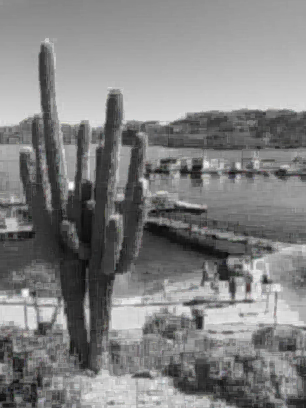
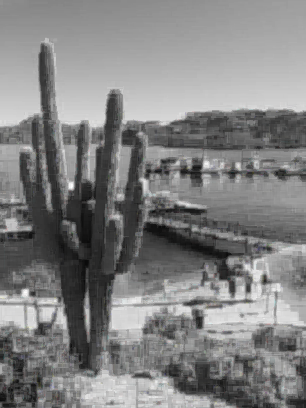
Finish AI Lab2

diff --git a/AI/ImageRecover/random_forest.py b/AI/ImageRecover/random_forest.py
@@ -30,12 +30,14 @@ def fix_patch(c, w, h, patch_size, corr_img, recover_img):
     # train_y =
 
 
-def optimize(recover_img):
-    radius = 1
+def optimize(corr_img, recover_img):
+    radius = 2
     (channel, width, height) = recover_img.shape
     for c in range(channel):
         for w in range(width):
             for h in range(height):
+                if corr_img[c, w, h] != 0:
+                    continue
                 total = 0
                 count = 0
                 for dx in range(-radius, 1 + radius):
@@ -47,12 +49,12 @@ def optimize(recover_img):
                                 and 0 != new_h != new_w:
                             total += recover_img[c, new_w, new_h]
                             count += 1
-                if abs(total / count - recover_img[c, w, h]) > 20/255:
+                if abs(total / count - recover_img[c, w, h]) > 0.2:
                     recover_img[c, w, h] = total / count
 
 
 def fix_global(corr_img, recover_img):
-    rfr = RandomForestRegressor(n_estimators=10)
+    rfr = RandomForestRegressor(n_estimators=50)
     noise_mask = corr_img == 0
     sample_coordinates = np.nonzero(~noise_mask)
     # if len(sample_coordinates[0]) < 2 * patch_size:
@@ -87,15 +89,13 @@ def main():
     recover_img[np.nonzero(recover_img < 0)] = 0
 
     cv.namedWindow("Before", flags=0)
-    cv.imshow("Before", recover_img.transpose().copy())
-    for _ in range(3):
-        optimize(recover_img)
+    cv.imshow("Before", corr_img.transpose())
 
     cv.namedWindow("After", flags=0)
     cv.imshow("After", recover_img.transpose())
     cv.waitKey(0)
     cv.destroyAllWindows()
-    cv.imwrite(img_path + '_fixed.png', recover_img.transpose() * 255)
+    cv.imwrite(img_path + '_rfr.png', recover_img.transpose() * 255)
 
 
 if __name__ == '__main__':

diff --git a/AI/ImageRecover/boosting.py b/AI/ImageRecover/boosting.py
@@ -8,7 +8,7 @@ from sklearn.ensemble import GradientBoostingRegressor
 
 def fix_global(corr_img, recover_img):
     g = GradientBoostingRegressor(loss='ls', max_depth=4, n_estimators=500)
-    noise_mask = corr_img== 0
+    noise_mask = corr_img == 0
     sample_coordinates = np.nonzero(~noise_mask)
     # if len(sample_coordinates[0]) < 2 * patch_size:
     #     return fix_patch(c, w, h, patch_size * 2, recover_img)
@@ -41,7 +41,7 @@ def main():
     recover_img[np.nonzero(recover_img > 255)] = 255
     recover_img[np.nonzero(recover_img < 0)] = 0
 
-    recover_img = cv.medianBlur(recover_img, 3)
+    # recover_img = cv.medianBlur(recover_img, 3)
 
     cv.namedWindow("Before", flags=0)
     cv.imshow("Before", corr_img.transpose())
@@ -49,6 +49,7 @@ def main():
     cv.imshow("After", recover_img.transpose())
     cv.waitKey(0)
     cv.destroyAllWindows()
+    cv.imwrite(img_path + '_boosting.png', recover_img.transpose())
 
 
 if __name__ == '__main__':

diff --git a/AI/ImageRecover/baseblock.py b/AI/ImageRecover/baseblock.py
@@ -69,6 +69,7 @@ def main():
     cv.imshow("After", recover_img.transpose())
     cv.waitKey(0)
     cv.destroyAllWindows()
+    cv.imwrite(img_path+'_baseblock.png', recover_img.transpose() * 255)
 
 
 if __name__ == '__main__':

diff --git a/AI/ImageRecover/mean.py b/AI/ImageRecover/mean.py
@@ -40,9 +40,4 @@ if __name__ == '__main__':
     cv.imshow("After", recover_img.transpose())
     cv.waitKey(0)
     cv.destroyAllWindows()
-
-
-
-
-
-
+    cv.imwrite(img_path + '_mean.png', recover_img.transpose())

diff --git a/AI/ImageRecover/__init__.py b/AI/ImageRecover/__init__.py
@@ -1,1 +1,1 @@
-__all__ = ['baseblock', 'baseline', 'gpr', 'mean', 'random_forest']
+__all__ = ['baseblock', 'baseline', 'gpr', 'mean', 'random_forest', 'boosting']

diff --git a/AI/ImageRecover/gpr.py b/AI/ImageRecover/gpr.py
@@ -58,4 +58,3 @@ def main():
 if __name__ == '__main__':
     main()
 
-

diff --git a/AI/ImageRecover/README.md b/AI/ImageRecover/README.md
@@ -1,0 +1,200 @@
+<center>
+
+# Image Recover
+
+</center>
+
+序号|学号|专业班级|姓名|性别
+-|-|-|-|-
+1|3150101155|计科1504|余锦成|男
+
+
+## 1. Project Introduction
+### 1.1. 开发环境
+- 操作系统：Ubuntu18.04
+- 开源框架：Python 3.6, scikit-learn 0.19.1, opencv-python 3.4.0.14, numpy 1.14.3
+- IDE：PyCharm
+- 项目管理工具：git
+
+### 1.2. 项目要求
+提供三张经过毁坏的图片，这三张图片的三个通道分别以一定的比例等概率地随机把某个像素点值设置为0。我们的任务是把这个图片尽量修复。最后评估指标是使用原图与修复图像每个像素的第二范式和（欧氏距离）。
+三张待修复的图片如下所示：
+![](img/A.png)
+![](img/B.png)
+![](img/C.png)
+
+## 2. Technical Details
+### 2. 理论阐述
+#### 2.1.1. Baseline
+
+该算法对每一行进行单独地恢复。对一行像素而言，对其横坐标$x$进行归一化，然后套入一个基函数$\phi$，进行一个非线性映射$\phi(x)$，对于映射后的坐标以及其未损坏的像素值$t$进行最大似然估计线性拟合$\mathbf{w}^T\mathbf{\phi(x)}$。
+修复的时候使用的基函数为
+$$
+\phi(x)=\exp{\left[-\frac{(x-\mu)^2}{2s^2}\right]}
+$$
+是不经过归一化的高斯分布密度函数。其中的均值是对于基函数个数的从0-1的线性插值。
+
+在实际使用中，我们使用的基函数是50个，对应的方差为0.01。此处0.01近似宽度像素点个数除以基函数个数乘以三，也就是说，一个像素点的附近的三个点对该点的影响最大。
+
+这种算法的坏处是只对于某一行某一个通道进行计算，计算的时候缺少了上一行和下一行的联系以及两个通道之间的联系，并且计算一个点的时候使用了一整行的信息，这也显得太过不合适。
+
+修复的效果如下图所示：
+![](img/A_50_0.6.png)
+![](img/B_50_0.6.png)
+![](img/C_50_0.6.png)
+
+可以看到修复效果并不是很好，主要是一行上有很多长条的噪点，上下行之间可以看到明显差别，不同通道之间统一性较差。在遇到临近三个点都被污染的时候，容易出现预测错误而出现长条噪点。
+
+#### 2.1.2. BaseBlock
+
+为了解决Baseline算法对于行与行之间的联系不密切的问题，我对上一个算法尝试了一些改进。首先我使用了二维的坐标信息$x=[x_1, x_2]$，基函数使用的是二元高斯分布密度函数：
+$$
+\phi(x)=\exp{\left[-\frac{(x-\mu)^T\Sigma^{-1}(x-\mu)}{2}\right]}
+$$
+其中均值第一维和第二维都是0-1的线性插值。所以最后基函数的格式是一维插值数量的平方。
+实际调参时候，插值了15个数，所以基函数为$15^2+1$个，最后一个是Bias。
+方差使用$0.01\mathbf{I}$，其中的0.01也以为着横坐标附近三个点（纵坐标由于原图不是方形，所以大概为5-6个像素点）。
+最后的效果如下图所示：
+![](img/B.png_baseblock.png)
+![](img/C.png_baseblock.png)
+可以看出，最后效果比Baseline稍微好一点，没有长条的噪点了，但是椒盐噪点还是有不少，而且图片细节丢失比较严重，所以这个模型并不是很好。
+
+#### 2.1.3. 均值滤波
+
+均值滤波算法并不是一个学习模型，但是是修复图片噪点的一个算法。我在研究过程中进行了测试。
+这个算法思想很简单，一个点的值使用以它为中心的九宫格的周围八个点的像素的均值。简单使用这个算法之后可以得出的结果如下图所示：
+![](img/A.png_mean.png)
+![](img/B.png_mean.png)
+可以看到，在噪点比例比较少的时候，恢复效果很好，但是在噪点比例较多的时候，九宫格只有一个有效点或者没有有效点较大的宫格进行计算时候，效果就会变得比较差了。
+
+#### 2.1.4. Gradient Boosting
+
+Boosting算法是使用多个弱分类器进行结合在一起分类的分类器。使用这种分类器我们可以实现一个回归算法。弱分类器之间的组合和权重使用梯度提升减小误差就是Gradient Boosting的思想。
+在实践中，我使用了第二范式和进行误差估计。
+具体效果如下：
+
+![](img/A.png_boosting.png)
+![](img/B.png_boosting.png)
+
+可以看到效果其实不是很好，尤其在噪点比例比较大的时候。而且因为是用多分类器进行回归，可以明显看到有一个一个的小格，这个是最明显的不足点。而且噪点也比较多，效果不是很好。
+
+#### 2.1.5 Random Forest
+随机森林算法是一种比较灵活的机器学习算法。在二分类问题中，我们可以学习一颗决策树对样本进行分类。但是这样一颗决策树是比较弱的分类器。那么随机森林就是通过有放回地随机抽取不同的样本进行决策树的学习，最后生成多颗决策树，汇总它们的决策结果作为随机森林的答案。随机森林的思想类似与Boosting，不过它的各个分类器都是一颗决策树。
+
+直接10颗决策树的随机森林的算法如下图所示：
+![](img/A.png_rfr.png)
+![](img/B.png_rfr.png)
+可以看到效果不错，对比均值滤波而言效果都要好一点。但是存在着跟Boosting一样的问题，就是出现小方格一样的图片分块不连续的效果。提高决策树的数量也没什么改善。
+
+### 2.2 算法实现
+#### 2.2.1. 数据预处理
+虽然我测试了好几个算法的效果，但其实实现都比较类似的。主要是提取出其中的训练数据特征、值以及测试数据特征。
+具体内容如下：
+- 首先读取图片，然后进行转置，获得图片为三维矩阵通道、宽、高。这里我还做了归一化处理。
+    ```python
+    corr_img = corr_img.transpose() / 255
+    ```
+- 提取Mask。这里对每个通道而言，把所有为0的像素点都认为是Nosie。
+    ```python
+    noise_mask = corr_img == 0
+    ```
+- 提取特征。这里的特征主要是像素的坐标和通道信息：
+    ```python
+    (train_channel_index, train_x_index, train_y_index) = \
+                                np.nonzero(~noise_mask)
+    (predict_channel_index, predict_x_index, predict_y_index) = \
+                                np.nonzero(~noise_mask)
+    ```
+- 提取训练值。直接代入坐标即可：
+    ```python
+    train_value = corr_img[train_channel_index, train_x_index, train_y_index]
+    ```
+- 在使用Baseblock时候，还需要把测试数据展成一个测试数据数\*基函数数\*特征数的一个矩阵。
+    ```python
+    train_coordinates = np.concatenate([[train_x], [train_y]]).transpose()
+    train_coordinates = np.array([train_coordinates] * basis_num ** 2).swapaxes(0, 1)
+    ```
+
+#### 2.2.2. 算法实现
+感觉sklearn库，有很多模型已经有实现了。我们Random Forest和Gradient Boosting可以直接使用这个库进行调参。
+```python
+g = sklearn.Model()
+g.fit(X,y)
+y_head = g.Predict(X_head)
+```
+
+但是Baseline和Baseblock和均值滤波需要自己实现。
+- Baseline
+    Baseline需要算出一个$\Phi$矩阵用于计算。
+    先构造出一个第一列为1的矩阵：
+    ```python
+    train_phi = np.column_stack((np.ones([train_num, 1]), \
+                np.zeros([train_num, basis_num - 1])))
+    ```
+    然后剩下的列用来求基函数的结果：
+    ```python
+    train_phi[:, 1: basis_num] = norm.pdf((np.array([train_x] * \
+                                         (basis_num-1)).T - mu) \
+                                / sigma) * np.sqrt(2 * np.pi)
+    ```
+    最后按照公式求出w:
+    ```python
+    w = (train_phi.T * train_phi).I * train_phi.T * corr_img[c, train_index, h].T
+    ```
+    然后对测试集进行同样的求值，然后进行预测：
+    ```python
+    recover_img[c, predict_index, h] = w.transpose() * predict_phi.transpose()
+    ```
+- Baseblock
+    Baseblock的实现稍微复杂一点。但是跟Baseline差不多。在把$X$展开成试数据数\*基函数数\*特征数的一个矩阵之后，对生成的$\mu$相减之后同一代入二元高斯中计算，可以节省大量运算时间：
+    ```python
+    train_coordinates = train_coordinates - mu
+    train_coordinates = train_coordinates.reshape(train_num * basis_num ** 2, 2)
+    ```
+    然后构造初始矩阵和完善矩阵：
+    ```python
+    train_phi = np.column_stack((np.ones([train_num, 1]), \
+                     np.zeros([train_num, basis_num**2])))
+    train_phi[:, 1:basis_num**2 + 1] = \ 
+        multivariate_normal.pdf(train_coordinates, cov=sigma)\
+        .reshape(train_num, basis_num**2)
+    ```
+- 均值滤波
+    均值滤波实现比较简单，只要对于每个九宫格进行迭代计算就可以。不过注意block内可能没有一个可行点，这时候需要扩大宫格的大小。伪代码如下：
+    ```python
+    def mean(block_size):
+        for block in generate_block(block_size)
+            if block is valid and center is corrupted:
+                block[center] = np.mean(block[other])
+            else:
+                mean(block_size + 1)
+    ```
+
+## 3.Experiment Results
+### 3.1. 系统界面
+本项目没有主界面，在项目中有多个.py文件，在安装依赖之后运行就可以了。
+### 3.2. 操作说明
+首先需要安装依赖：
+```bash
+pip3 install -r requirements.txt
+```
+然后运行想要运行的模型，第一个参数为图片路劲：
+```bash
+python3 random_forest.py ./img/A.png
+```
+修复完成之后，会显示图片的对比，并且把修复后图片保存在图片目录下，文件名为：图片名_模型.png
+### 3.3. 运行结果
+运行之后，我们可以看到所选模型的修复前后结果对比：
+![](img/result.png)
+### 3.4. 总结
+这次实验非常有趣，对于图像进行修复是人工智能的一大重要的应用。人工智能能够把一张人类都已经看不清的图片修复成人类可以辨识的图片，非常厉害。而且这种工作不是普通人能够完成的。
+在过程中，一开始我对原有的Baseline算法进行二维扩展之后效果并不是很好，这一点我是比较失望的。
+后来我想用一个GMM模型对图片的一个小区域进行拟合，然后算出待修复点的数学期望进行修复，但无奈把GMM用于回归上是比较难以实现的。我在网上对于GMM模型对于图片的修复方面的文献进行搜索，发现其效果还是很棒的[^1]，但是自己没有足够的时间进行复现。其效果如下：
+![](img/leana_corr.png)
+![](img/lenna_LINC.png)
+可以看到细节处理和光滑程度都很棒。该算法在进行图像插值时候，认为两个patch之间是存在一定迭代关系的。并且使用GMM去拟合一个patch的分布。在GMM拟合之前使用kNN算法进行聚类。
+
+最后尝试了Boosting和Random Forest这两个机器学习中比价著名的回归算法，发现效果都可以。尤其是Random Forest，是唯一一个比均值滤波效果还好的算法。而且Random Forest的思想比较简单，实现起来速度也比较快，并且效果很好，而且很通用，也是我个人比较喜欢的一个算法。
+
+## References
+[^1]: Image Restoration Using Gaussian Mixture Models With Spatially Constrained Patch Clustering
